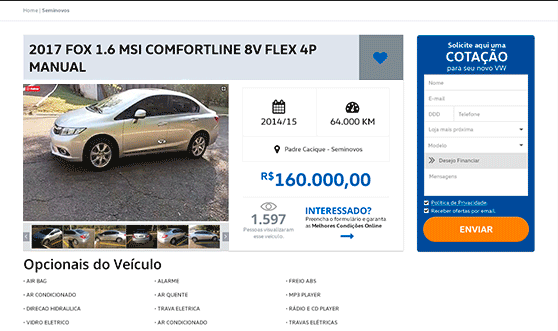
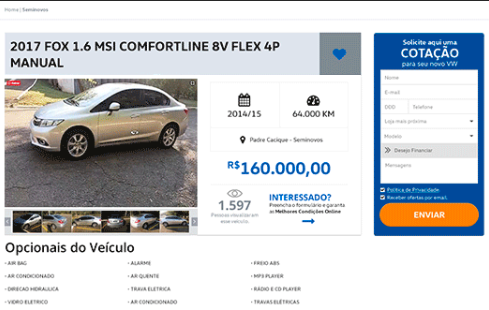
testes

diff --git a/scripts/renderData.js b/scripts/renderData.js
@@ -373,7 +373,7 @@ const renderProjects = (container, data) => {
     return `
         <div class="box" id="${id}">
           <div class="cover">
-            <img width="489" src="${imgSrc}">
+            <img width="489" height="310" src="${imgSrc}">
             <div class="details">
               <p>${title}</p>
               <div class="mini-languages">
